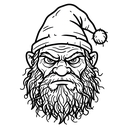
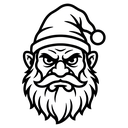
Nowa ikona krasnala (wyrazistsza kreska); SW v5

diff --git a/docs/sw.js b/docs/sw.js
@@ -1,7 +1,7 @@
 /* Service worker Fit Krasnal — offline dla PWA.
    Strona (nawigacja): najpierw sieć (świeże aktualizacje), fallback cache (offline).
    Assety: cache-first. Przy zmianie index.html podbij wersję CACHE. */
-const CACHE = "fitkrasnal-v4";
+const CACHE = "fitkrasnal-v5";
 const ASSETS = ["./", "./index.html", "./manifest.webmanifest", "./logo.png",
                 "./krasnal-icon.png",
                 "./icon-192.png", "./icon-512.png", "./apple-touch-icon.png"];
